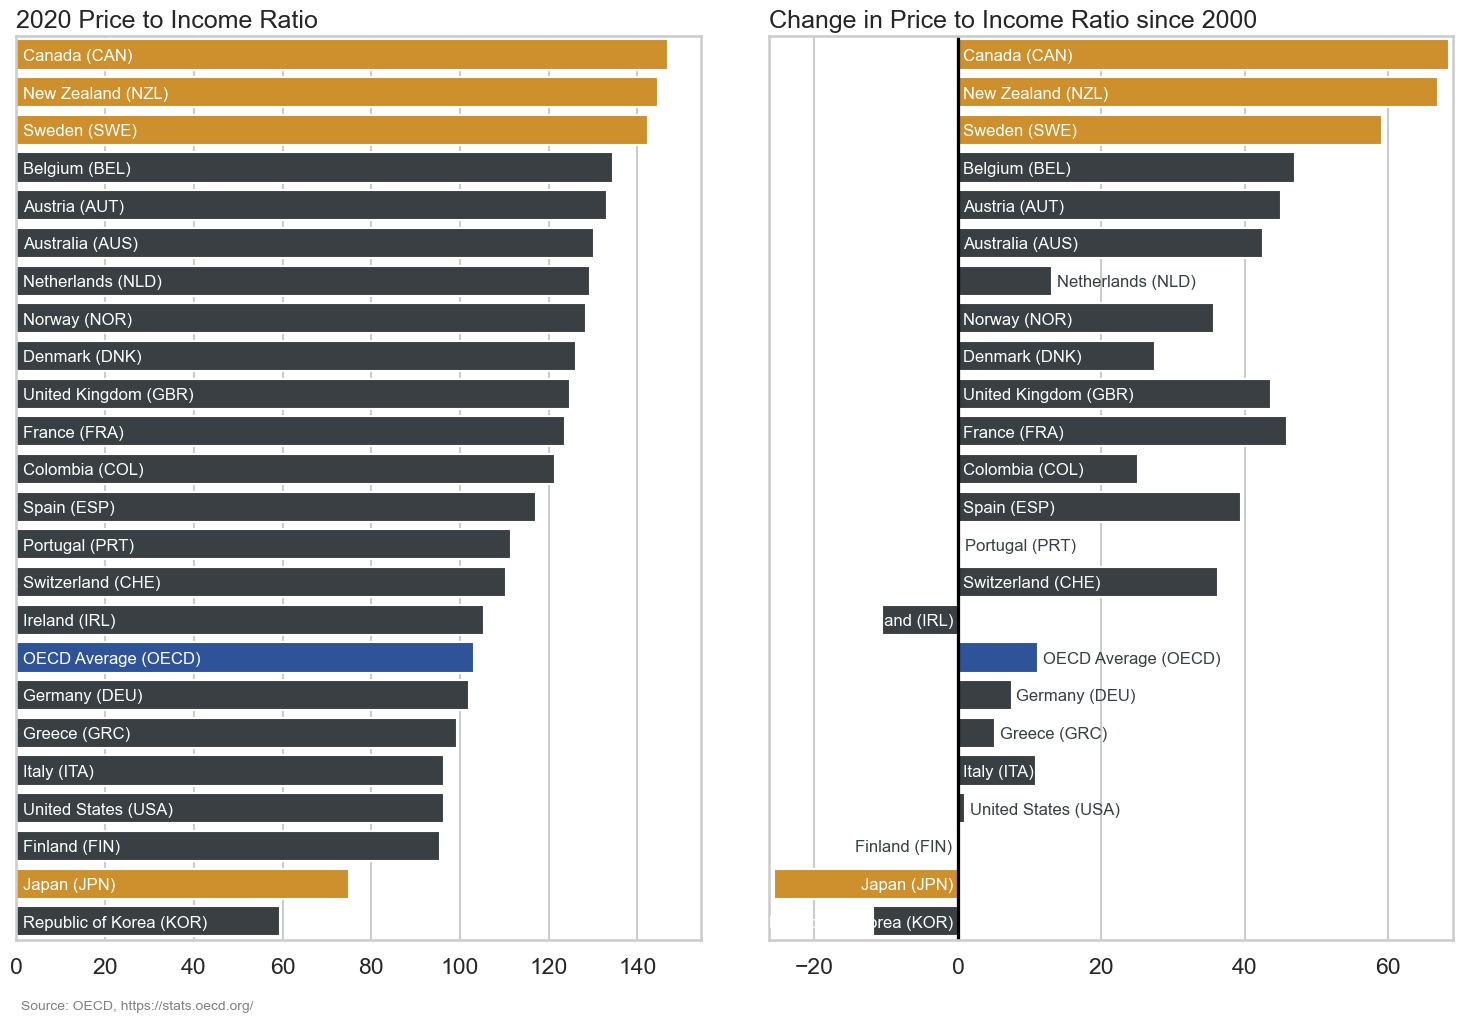
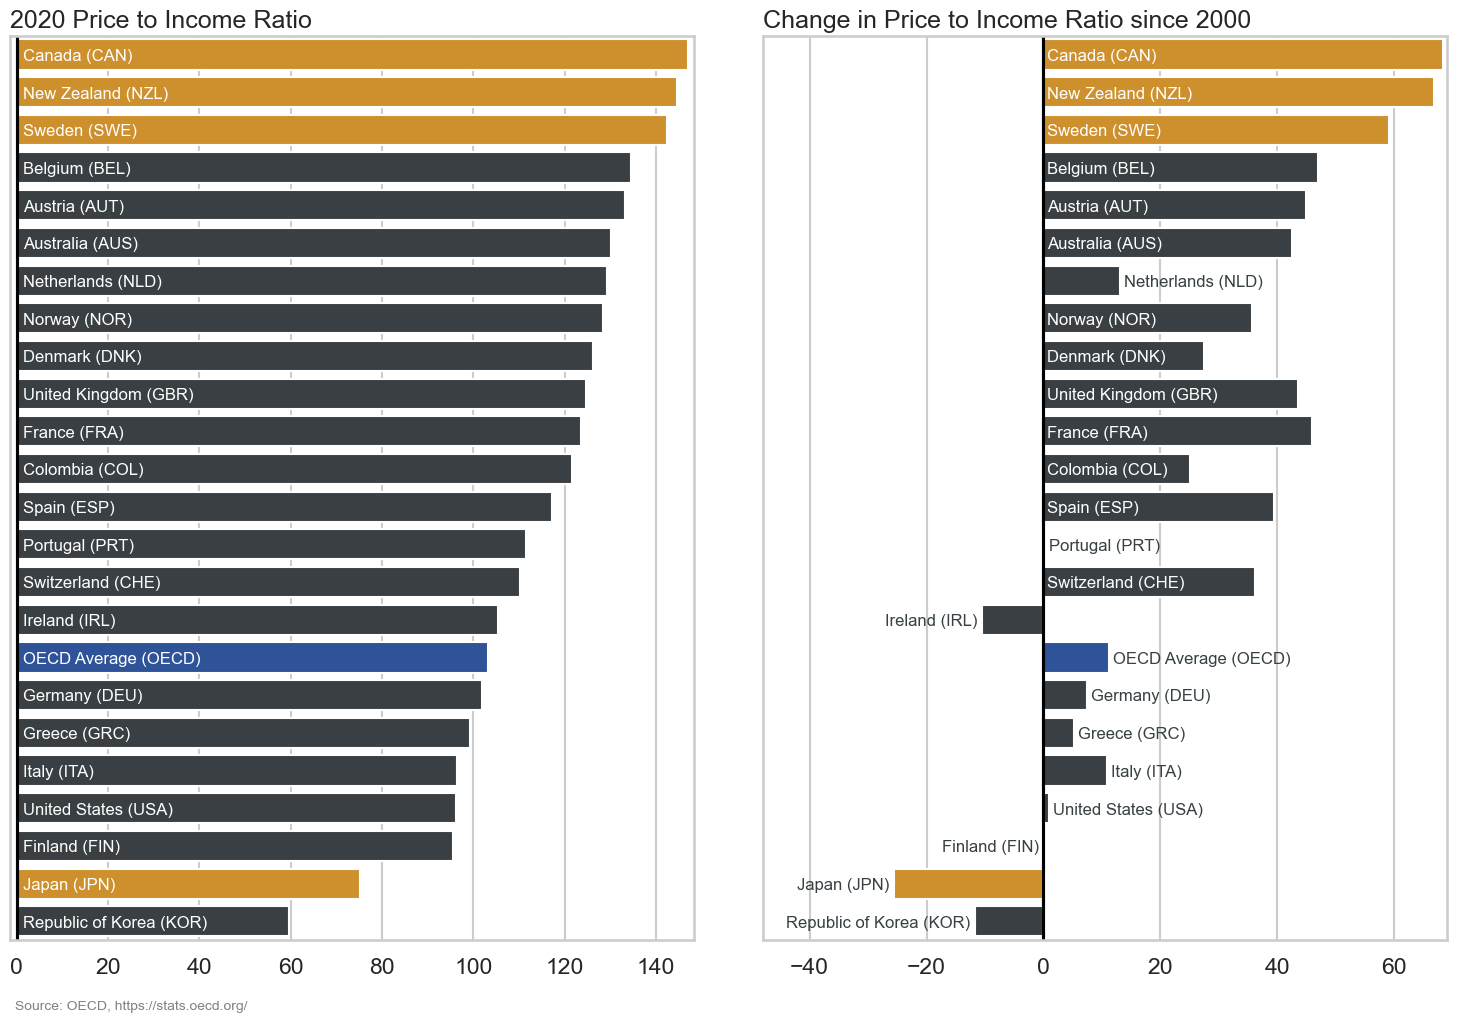
Improve label positions in bar plots
Now correctly adjusts to scales

diff --git a/scripts/03-plot-barplot.py b/scripts/03-plot-barplot.py
@@ -81,7 +81,6 @@ def plot_current(combined, var, label, colours, ax=None):
     """
 
     import seaborn as sns
-    import matplotlib.pyplot as plt
 
     # Filter to most recent year and sort
     plot_data = combined[combined["Year"] == max(combined["Year"])]
@@ -89,18 +88,19 @@ def plot_current(combined, var, label, colours, ax=None):
     # Plot bar chart
     sns.barplot(x=var, y="CountryLabel", data=plot_data, palette=colours, ax=ax)
 
-    plt.axvline(x=0, color="black")
+    ax.axvline(x=0, color="black")
 
     # Add title and labels
     ax.set_title(f"2020 {label}", loc="left")
     ax.set(xlabel=None, ylabel=None, yticklabels=[])
 
     # Label bars
-    ax = label_bars(
+    limits = label_bars(
         ax,
         labels=plot_data["CountryLabel"].cat.categories,
         values=list(plot_data[var]),
     )
+    ax.set_xlim(limits[0], limits[1])
 
     return ax
 
@@ -120,7 +120,6 @@ def plot_change(combined, var, label, colours, ax=None):
 
     import seaborn as sns
     import pandas as pd
-    import matplotlib.pyplot as plt
 
     # Filter to most recent year and sort by RealPriceIndex
     plot_data = combined.groupby("Code3", sort=False).apply(
@@ -144,7 +143,7 @@ def plot_change(combined, var, label, colours, ax=None):
         x="Change", y="CountryLabel", data=plot_data, palette=colours, ax=ax
     )
 
-    plt.axvline(x=0, color="black")
+    ax.axvline(x=0, color="black")
 
     # Add title and labels
     ax.set_title(f"Change in {label} since 2000", loc="left")
@@ -193,44 +192,68 @@ def label_bars(ax, labels, values):
     """
 
     from numpy import sign
+    from matplotlib.artist import Artist
+
+    fig = ax.get_figure()
+    renderer = fig.canvas.get_renderer()
 
     padding = 0.01 * max(values)
-    limits = [min(values), max(values) + padding]
-    if min(values) < 0:
-        limits[0] = min(values) - padding
+    limits = [min(0, min(values)) - padding, max(values) + padding]
 
+    # Loop over labels
     for idx, label in enumerate(labels):
+
+        # Set initial position and alignment
         value = values[idx]
+        x_pos = 0 + sign(value) * padding
+
+        align = "left"
         if value < 0:
-            width = abs(min(values))
             align = "right"
-        else:
-            width = max(values)
-            align = "left"
 
-        label_width = len(label) * 0.013
-        if label_width > (abs(value) / width):
-            x_pos = value
-            colour = "#374043"
-
-            x_width = x_pos + sign(value) * (2 * label_width * width + padding)
-            if x_width > limits[1]:
-                limits[1] = x_width
-            elif x_width < limits[0]:
-                limits[0] = x_width
-
-        else:
-            x_pos = 0
-            colour = "white"
-
-        ax.text(
-            x=x_pos + sign(value) * padding,
+        # Try to plot the label
+        text = ax.text(
+            x=x_pos,
             y=idx + 0.15,
             s=label,
-            color=colour,
+            color="white",
             fontsize=12,
             horizontalalignment=align,
         )
+
+        # Get the dimensions of the label in data coordinates
+        bounding_box = text.get_window_extent(renderer=renderer).transformed(
+            ax.transData.inverted()
+        )
+        # Divide by 2 because there are two subplots in the figure
+        text_width = bounding_box.width / 2
+
+        # If the label is longer than the bar, move it to after the bar
+        if text_width > value:
+
+            # Remove the current label
+            Artist.remove(text)
+
+            # Set new position
+            x_pos = value + sign(value) * padding
+
+            ax.text(
+                x=x_pos,
+                y=idx + 0.15,
+                s=label,
+                color="#374043",
+                fontsize=12,
+                horizontalalignment=align,
+            )
+
+            # Get the far edge of the label
+            text_limit = x_pos + sign(value) * (text_width + padding)
+
+            # Update the plot limits if needed
+            if text_limit > limits[1]:
+                limits[1] = text_limit
+            elif text_limit < limits[0]:
+                limits[0] = text_limit
 
     return limits
 
